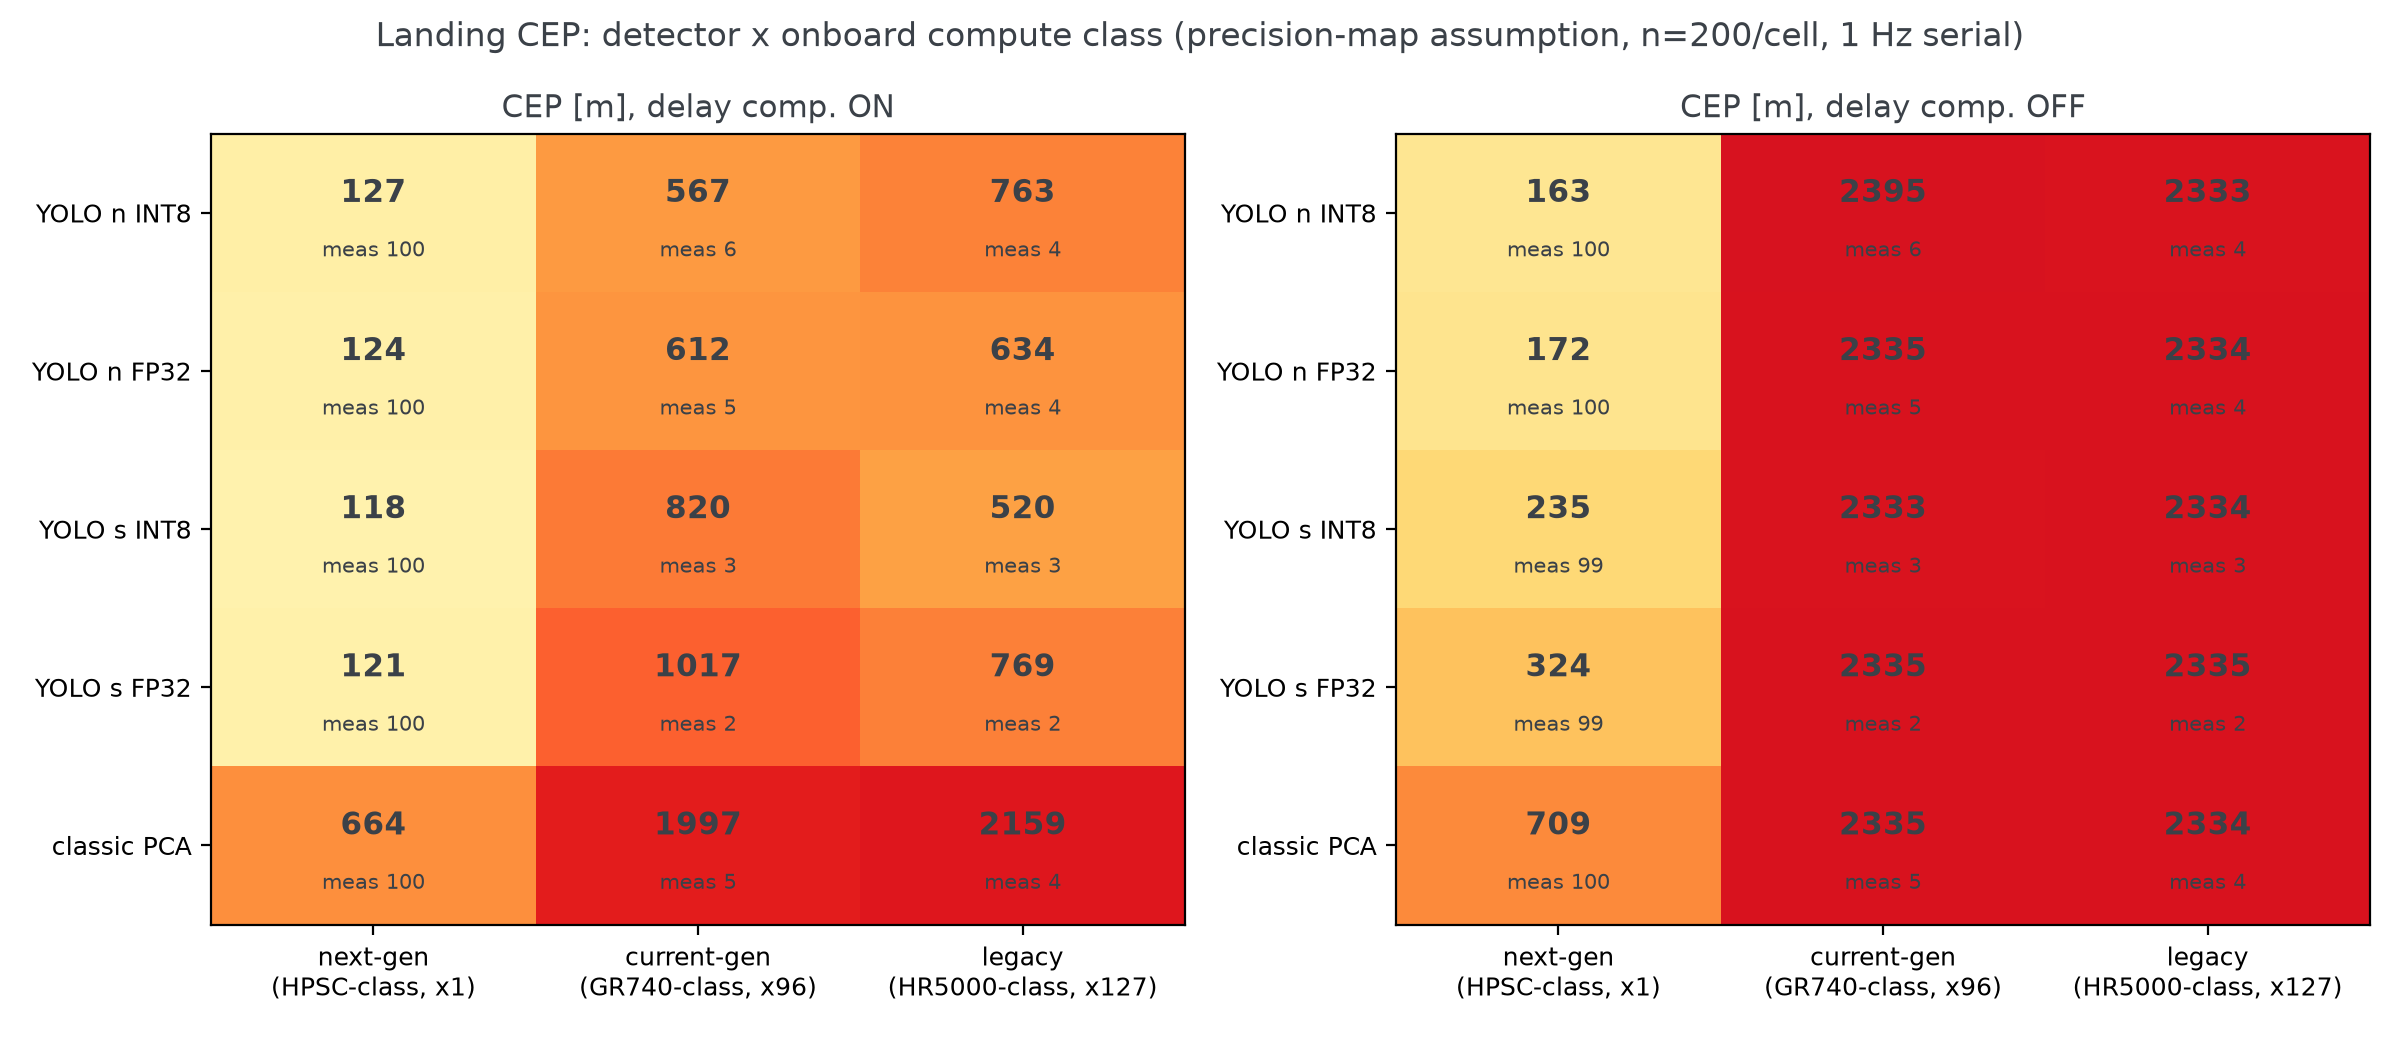
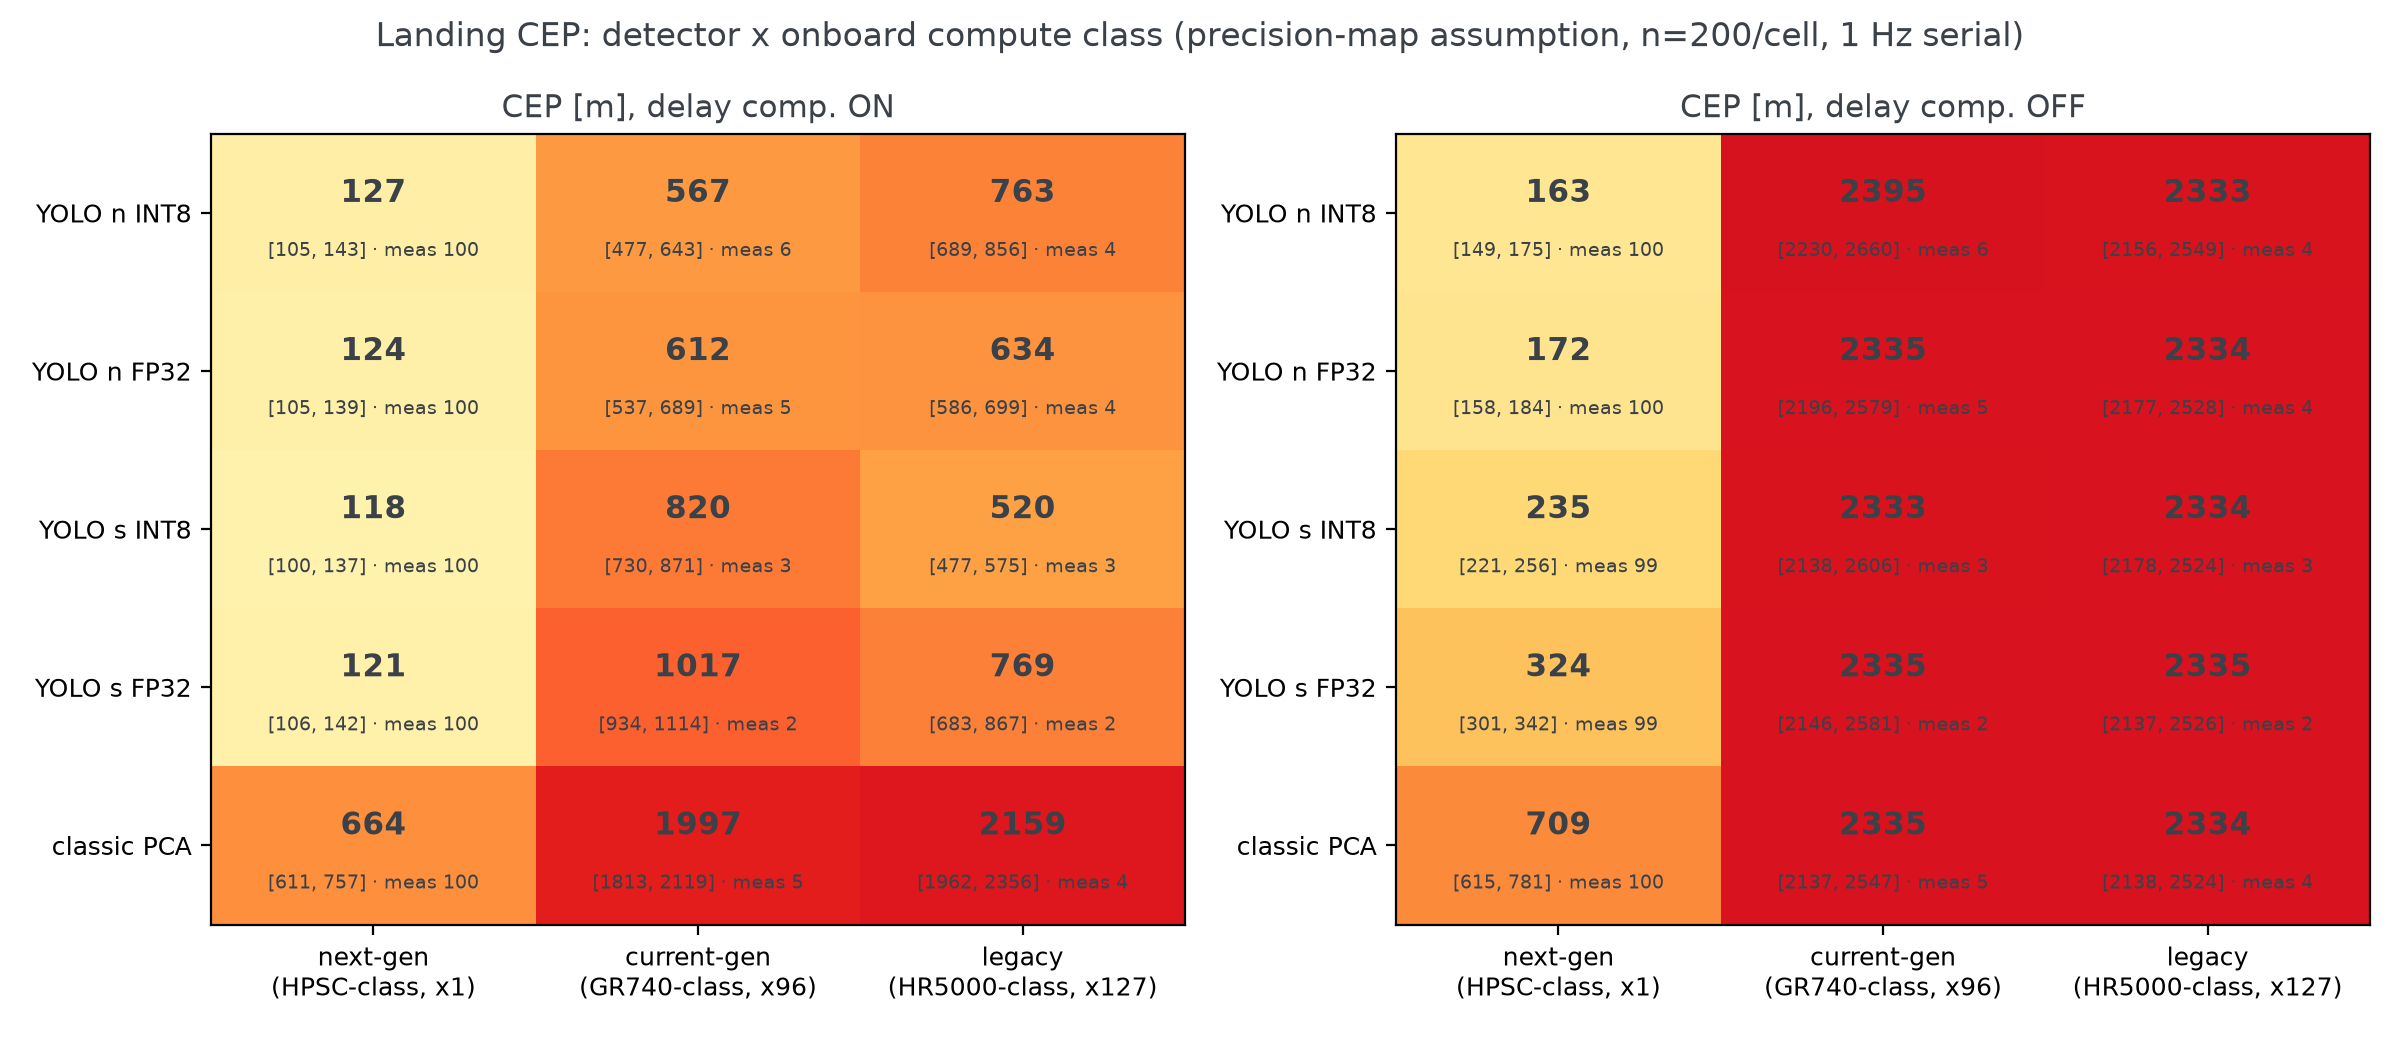
P9: 전 조건 표·막대 도표 추가, 히트맵 CI 표기 — 칸 간 순위 오독 방지
붕괴 영역의 FP32/INT8 순위 뒤집힘 원인 규명: 측정 스케줄 앨리어싱(직렬 1 Hz에서
τ가 촬영 격자와 간섭, 밴드 내 마지막 측정 시각 t_last 53~97 s가 CEP와 단조 대응).
qa_facts에 해석 규칙 명문화. docs/p9_matrix_table.md 30행 자동 생성.

diff --git a/scripts/analyze_p9.py b/scripts/analyze_p9.py
@@ -38,8 +38,9 @@ def heatmap(d: dict, comp: bool, ax) -> None:
             txt = f"{c['cep_m']:.0f}" if c["cep_m"] < 10000 else f"{c['cep_m']/1e3:.1f}k"
             ax.text(j, i - 0.12, txt, ha="center", va="center", fontsize=11,
                     color=INK, fontweight="bold")
-            ax.text(j, i + 0.24, f"meas {c['mean_n_meas']:.0f}", ha="center",
-                    va="center", fontsize=7.5, color=INK)
+            lo, hi = c["cep_ci95_m"]
+            ax.text(j, i + 0.24, f"[{lo:.0f}, {hi:.0f}] · meas {c['mean_n_meas']:.0f}",
+                    ha="center", va="center", fontsize=7, color=INK)
     ax.set_xticks(range(len(CLS_ORDER)), [CLS_LABEL[c] for c in CLS_ORDER], fontsize=9)
     ax.set_yticks(range(len(DET_ORDER)), [DET_LABEL[k] for k in DET_ORDER], fontsize=9)
     ax.set_title(f"CEP [m], delay comp. {'ON' if comp else 'OFF'}",
@@ -107,17 +108,90 @@ def fig_map_vs_cep(d: dict, out: Path) -> None:
     print(f"fig: {out}")
 
 
+def fig_bars(d: dict, out: Path) -> None:
+    """탐지기 그룹 × 등급 막대 (CI 오차막대, log y), 보상 on/off 2패널."""
+    import matplotlib
+
+    matplotlib.use("Agg")
+    import matplotlib.pyplot as plt
+
+    fig, axes = plt.subplots(2, 1, figsize=(11, 8), sharex=True)
+    width = 0.25
+    xs = np.arange(len(DET_ORDER))
+    for ax, comp in zip(axes, (True, False)):
+        conds = {(c["detector"], c["class"]): c for c in d["conditions"]
+                 if c["delay_comp"] == comp}
+        for j, cls in enumerate(CLS_ORDER):
+            ceps = np.array([conds[(det, cls)]["cep_m"] for det in DET_ORDER])
+            errs = np.array([[conds[(det, cls)]["cep_m"] - conds[(det, cls)]["cep_ci95_m"][0]
+                              for det in DET_ORDER],
+                             [conds[(det, cls)]["cep_ci95_m"][1] - conds[(det, cls)]["cep_m"]
+                              for det in DET_ORDER]])
+            ax.bar(xs + (j - 1) * width, ceps, width * 0.92, color=CLS_COL[cls],
+                   yerr=errs, capsize=3, error_kw={"lw": 1, "ecolor": INK},
+                   label=CLS_LABEL[cls].replace("\n", " ") if comp else None)
+        ax.set_yscale("log")
+        ax.set_ylabel("CEP [m] (log)")
+        ax.grid(True, axis="y", alpha=0.25)
+        for s in ("top", "right"):
+            ax.spines[s].set_visible(False)
+        ax.set_title(f"delay comp. {'ON' if comp else 'OFF'}", fontsize=11, color=INK)
+    axes[0].legend(frameon=False, fontsize=9)
+    axes[1].set_xticks(xs, [DET_LABEL[k] for k in DET_ORDER], fontsize=9)
+    fig.suptitle("Landing CEP by detector x compute class (95% CI, "
+                 f"n={d['params']['n_runs']}/condition)", fontsize=12, color=INK)
+    fig.tight_layout()
+    fig.savefig(out, dpi=200)
+    plt.close(fig)
+    print(f"fig: {out}")
+
+
+def make_table(d: dict, out: Path) -> None:
+    """전 조건 표 → markdown (자동 생성, 숫자 출처 = p9_matrix.json)."""
+    maps = {dd["key"]: dd["mAP50_95"] for dd in d["params"]["detectors"]}
+    lines = [
+        "# P9 매트릭스 전 조건 결과 (자동 생성 — scripts/analyze_p9.py)",
+        "",
+        f"출처: results/p9_matrix.json (n={d['params']['n_runs']}/조건, 1 Hz 직렬, "
+        "τ=상수 스케일 중앙값, 정밀 지도 가정). 손으로 고치지 말 것.",
+        "붕괴 영역(τ>주기)의 칸 간 순위는 측정 스케줄 앨리어싱 — 해석 규칙은 "
+        "docs/qa_facts.md §6 참조.",
+        "",
+        "| 탐지기 | mAP50-95 | 등급 | τ [s] | 보상 | 측정 수 | CEP [m] | 95% CI [m] "
+        "| 게이트 수락률 | 착륙 속도 [m/s] |",
+        "|---|---|---|---|---|---|---|---|---|---|",
+    ]
+    for det in DET_ORDER:
+        for cls in CLS_ORDER:
+            for comp in (True, False):
+                c = next(x for x in d["conditions"] if x["detector"] == det
+                         and x["class"] == cls and x["delay_comp"] == comp)
+                m = maps[det]
+                lines.append(
+                    f"| {DET_LABEL[det]} | {m:.3f} | {CLS_LABEL[cls].splitlines()[0]} "
+                    f"| {c['tau_s']:.2f} | {'on' if comp else 'off'} "
+                    f"| {c['mean_n_meas']:.1f} | {c['cep_m']:.1f} "
+                    f"| [{c['cep_ci95_m'][0]:.1f}, {c['cep_ci95_m'][1]:.1f}] "
+                    f"| {c['mean_gate_accept']:.3f} | {c['landing_v_mean_mps']:.2f} |")
+    out.parent.mkdir(parents=True, exist_ok=True)
+    out.write_text("\n".join(lines) + "\n", encoding="utf-8")
+    print(f"table: {out} ({len(d['conditions'])} rows)")
+
+
 def main() -> None:
     ap = argparse.ArgumentParser(description=__doc__)
     ap.add_argument("--config", default="config.yaml")
     ap.add_argument("--seed", type=int, default=0)  # 결정론 — 미사용
     ap.add_argument("--matrix", default="results/p9_matrix.json")
     ap.add_argument("--out", default="figs")
+    ap.add_argument("--table-out", default="docs/p9_matrix_table.md")
     args = ap.parse_args()
 
     d = json.loads(Path(args.matrix).read_text(encoding="utf-8"))
     fig_heatmaps(d, Path(args.out) / "p9_matrix_heatmap.png")
     fig_map_vs_cep(d, Path(args.out) / "p9_map_vs_cep.png")
+    fig_bars(d, Path(args.out) / "p9_matrix_bars.png")
+    make_table(d, Path(args.table_out))
 
 
 if __name__ == "__main__":

diff --git a/docs/p9_matrix_table.md b/docs/p9_matrix_table.md
@@ -1,0 +1,37 @@
+# P9 매트릭스 전 조건 결과 (자동 생성 — scripts/analyze_p9.py)
+
+출처: results/p9_matrix.json (n=200/조건, 1 Hz 직렬, τ=상수 스케일 중앙값, 정밀 지도 가정). 손으로 고치지 말 것.
+붕괴 영역(τ>주기)의 칸 간 순위는 측정 스케줄 앨리어싱 — 해석 규칙은 docs/qa_facts.md §6 참조.
+
+| 탐지기 | mAP50-95 | 등급 | τ [s] | 보상 | 측정 수 | CEP [m] | 95% CI [m] | 게이트 수락률 | 착륙 속도 [m/s] |
+|---|---|---|---|---|---|---|---|---|---|
+| YOLO n INT8 | 0.980 | next-gen | 0.20 | on | 99.6 | 126.6 | [105.1, 143.0] | 0.883 | 8.05 |
+| YOLO n INT8 | 0.980 | next-gen | 0.20 | off | 99.5 | 162.8 | [148.9, 175.3] | 0.883 | 22.30 |
+| YOLO n INT8 | 0.980 | current-gen | 18.72 | on | 6.0 | 567.4 | [476.6, 642.9] | 0.828 | 32.94 |
+| YOLO n INT8 | 0.980 | current-gen | 18.72 | off | 6.0 | 2395.0 | [2229.8, 2659.9] | 0.005 | 56.26 |
+| YOLO n INT8 | 0.980 | legacy | 24.86 | on | 4.2 | 763.4 | [689.5, 856.1] | 0.892 | 32.03 |
+| YOLO n INT8 | 0.980 | legacy | 24.86 | off | 4.2 | 2332.5 | [2155.8, 2548.9] | 0.000 | 49.48 |
+| YOLO n FP32 | 0.994 | next-gen | 0.22 | on | 99.6 | 124.0 | [104.5, 138.9] | 0.883 | 7.72 |
+| YOLO n FP32 | 0.994 | next-gen | 0.22 | off | 99.5 | 171.9 | [157.7, 184.1] | 0.883 | 23.79 |
+| YOLO n FP32 | 0.994 | current-gen | 20.95 | on | 5.0 | 612.0 | [537.0, 689.1] | 0.870 | 30.71 |
+| YOLO n FP32 | 0.994 | current-gen | 20.95 | off | 5.0 | 2335.1 | [2196.2, 2579.0] | 0.000 | 49.46 |
+| YOLO n FP32 | 0.994 | legacy | 27.82 | on | 4.0 | 633.8 | [586.3, 698.8] | 0.884 | 28.07 |
+| YOLO n FP32 | 0.994 | legacy | 27.82 | off | 4.0 | 2333.5 | [2176.8, 2528.2] | 0.000 | 49.47 |
+| YOLO s INT8 | 0.986 | next-gen | 0.38 | on | 99.7 | 117.5 | [100.4, 136.7] | 0.904 | 7.70 |
+| YOLO s INT8 | 0.986 | next-gen | 0.38 | off | 99.4 | 234.5 | [221.0, 255.8] | 0.904 | 32.19 |
+| YOLO s INT8 | 0.986 | current-gen | 36.01 | on | 3.0 | 820.0 | [730.3, 871.0] | 0.947 | 26.69 |
+| YOLO s INT8 | 0.986 | current-gen | 36.01 | off | 3.0 | 2332.5 | [2137.8, 2605.7] | 0.000 | 49.44 |
+| YOLO s INT8 | 0.986 | legacy | 47.83 | on | 3.0 | 520.1 | [476.9, 575.5] | 0.960 | 20.06 |
+| YOLO s INT8 | 0.986 | legacy | 47.83 | off | 3.0 | 2334.3 | [2178.0, 2524.1] | 0.000 | 49.46 |
+| YOLO s FP32 | 0.995 | next-gen | 0.54 | on | 99.7 | 121.2 | [106.3, 142.1] | 0.905 | 8.42 |
+| YOLO s FP32 | 0.995 | next-gen | 0.54 | off | 99.3 | 324.2 | [301.1, 342.2] | 0.905 | 38.36 |
+| YOLO s FP32 | 0.995 | current-gen | 51.33 | on | 2.0 | 1016.8 | [934.1, 1114.0] | 0.998 | 34.26 |
+| YOLO s FP32 | 0.995 | current-gen | 51.33 | off | 2.0 | 2335.3 | [2146.4, 2580.9] | 0.000 | 49.46 |
+| YOLO s FP32 | 0.995 | legacy | 68.18 | on | 2.0 | 769.0 | [683.0, 866.6] | 1.000 | 27.35 |
+| YOLO s FP32 | 0.995 | legacy | 68.18 | off | 2.0 | 2334.6 | [2137.0, 2526.2] | 0.000 | 49.46 |
+| classic PCA | 0.093 | next-gen | 0.22 | on | 99.7 | 664.4 | [610.8, 756.6] | 0.834 | 18.89 |
+| classic PCA | 0.093 | next-gen | 0.22 | off | 99.5 | 708.7 | [615.1, 780.7] | 0.835 | 24.93 |
+| classic PCA | 0.093 | current-gen | 20.93 | on | 5.0 | 1996.8 | [1812.7, 2118.7] | 0.831 | 43.42 |
+| classic PCA | 0.093 | current-gen | 20.93 | off | 5.0 | 2335.1 | [2137.1, 2547.4] | 0.000 | 49.46 |
+| classic PCA | 0.093 | legacy | 27.80 | on | 4.0 | 2158.8 | [1961.7, 2356.1] | 0.821 | 42.16 |
+| classic PCA | 0.093 | legacy | 27.80 | off | 4.0 | 2333.5 | [2138.1, 2523.8] | 0.000 | 49.47 |

diff --git a/docs/qa_facts.md b/docs/qa_facts.md
@@ -85,6 +85,13 @@
   IMU 드리프트 바닥) ④ 같은 mAP 0.99가 등급 따라 118→1017 m — mAP 단독으로는 착륙
   성능을 못 정렬. mAP→σ는 수식이 아니라 탐지기별 개루프 보정 실측 사용.
   (p9_matrix.json, figs/p9_matrix_heatmap.png, p9_map_vs_cep.png)
+- **P9 해석 규칙(칸 간 순위 주의)**: ① 차세대 YOLO 4칸(118~127 m)은 CI가 거의 전부
+  겹침 — 순위 없음. ② 붕괴 영역(τ 19~68 s)에서 FP32/INT8 우위가 등급마다 뒤집히는
+  것은 탐지기 품질이 아니라 **측정 스케줄 앨리어싱**: 직렬 1 Hz에서 τ가 촬영 격자와
+  간섭해 밴드(100 s) 내 마지막 측정 시각 t_last가 τ에 따라 53~97 s로 튀고, CEP가
+  t_last와 거의 단조 대응(t_last 96 s→567, 97→520 vs 75→820, 53→1017 m). 즉 붕괴
+  영역의 칸 간 차이는 "τ 위상 운"이며 탐지기 비교로 읽으면 안 됨 — 유효한 결론은
+  영역 수준(평탄/붕괴/바닥)뿐. (p9_matrix.json conditions의 tau_s·cep_m로 재현)
 - MC 500회 이상은 10월 본실험(계획서 2단계). 현재 n=200은 결선용 예비.
 
 ## 7. 신규성·선행연구
